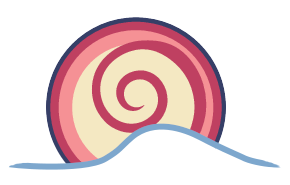
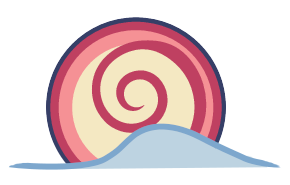
added rendering of candy on the ground

Changed region(s): [[0.2793, 0.7027, 0.9, 0.9189]]

diff --git a/levels/level1.js b/levels/level1.js
@@ -6,12 +6,31 @@ const level1 = new Level(
         new Endboss()
     ],
     [
+        new Candy(400),
+        new Candy(460),
+        new Candy(700),
+        new Candy(800),
+        new Candy(1200),
+        new Candy(1450),
+        new Candy(1520),
+        new Candy(1800),
+        new Candy(2000),
+        new Candy(2300),
+        new Candy(2600),
+        new Candy(2700),
+        new Candy(3000),
+        new Candy(3100),
+        new Candy(3400),
+        new Candy(3600),
+        new Candy(3650),
+        new Candy(3700)
+    ],
+    [
         new BackgroundObject('img/background/l1-background.png', 0, 0),
         new BackgroundObject('img/background/l4-stars.png', 0, 0),
         new Moon('img/background/l6-moon.png', -240, 10),
         new BackgroundObject('img/background/l2-northern-lights01.png', 0, 0),
-        new BackgroundObject('img/background/l5-northern-lights02.png', 0, 0),
-        
+        new BackgroundObject('img/background/l5-northern-lights02.png', 0, 0)
     ],
     [
         new MovingBackgroundObject('img/background/l7-mountains01.png', 0, 0, 0.3),

diff --git a/classes/world.class.js b/classes/world.class.js
@@ -36,6 +36,12 @@ class World {
                 this.statusbar.setPercentage(this.character.life);
             };
         });
+        this.level.candys.forEach(candy => {
+            if (this.character.isPickedUp(candy)) {
+                console.log('isPickedUp');
+                this.level.candys.splice(this.candy);
+            }
+        });
     }
 
     checkThrowableObject() {
@@ -53,6 +59,7 @@ class World {
         this.addToCanvas(this.statusbar);
 
         this.ctx.translate(this.camera_x, 0);
+        this.addObjectsToCanvas(this.level.candys);
         this.addObjectsToCanvas(this.level.enemies);
         this.addToCanvas(this.character);
         this.addObjectsToCanvas(this.throwableObjects);

diff --git a/index.html b/index.html
@@ -19,6 +19,9 @@
     <script src="classes/throwable-object.class.js"></script>
     <script src="classes/character.class.js"></script>
     <script src="classes/enemy.class.js"></script>
+    <script src="classes/ground-object.class.js"></script>
+    <script src="classes/candy.class.js"></script>
+    <script src="classes/coin.class.js"></script>
     <script src="classes/world.class.js"></script>
     <script src="classes/keyboard.class.js"></script>
     <script src="classes/level.class.js"></script>

diff --git a/classes/level.class.js b/classes/level.class.js
@@ -1,11 +1,13 @@
 class Level {
     enemies;
+    candys;
     staticBackground;
     movingBackground;
     level_end_x = 3840;
 
-    constructor(enemies, staticBackground, movingBackground) {
+    constructor(enemies, candys, staticBackground, movingBackground) {
         this.enemies = enemies;
+        this.candys = candys;
         this.staticBackground = staticBackground;
         this.movingBackground = movingBackground;
     }

diff --git a/classes/candy.class.js b/classes/candy.class.js
@@ -1,0 +1,15 @@
+class Candy extends GroundObject {
+    y = 510;
+    width = 100;
+    height = 63;
+    lastCandyPosition;
+    IMAGES = [
+        'img/candy/candy_ground.png',
+        'img/candy/candy_ground-mirrored.png'
+    ];
+
+    constructor(x) {
+        super().loadRandomImg(this.IMAGES);
+        this.x = x;
+    }
+}

diff --git a/classes/foreground.class.js b/classes/foreground.class.js
@@ -20,6 +20,11 @@ class Foreground {
         this.img.src = path;
     }
 
+    loadRandomImg(arr) {
+        this.img = new Image();
+        this.img.src = arr[Math.floor((Math.random() * arr.length))];
+    }
+
     loadImages(arr) {
         arr.forEach((path) => {
             let img = new Image();

diff --git a/classes/movable-object.class.js b/classes/movable-object.class.js
@@ -102,4 +102,8 @@ class MovableObject extends Foreground {
     isDead() {
         return this.life == 0;
     }
+
+    isPickedUp(object) {
+        return this.x + 220 + 115 > object.x;
+    }
 }

diff --git a/classes/ground-object.class.js b/classes/ground-object.class.js
@@ -1,0 +1,6 @@
+class GroundObject extends Foreground {
+
+    constructor() {
+        super();
+    }
+}
